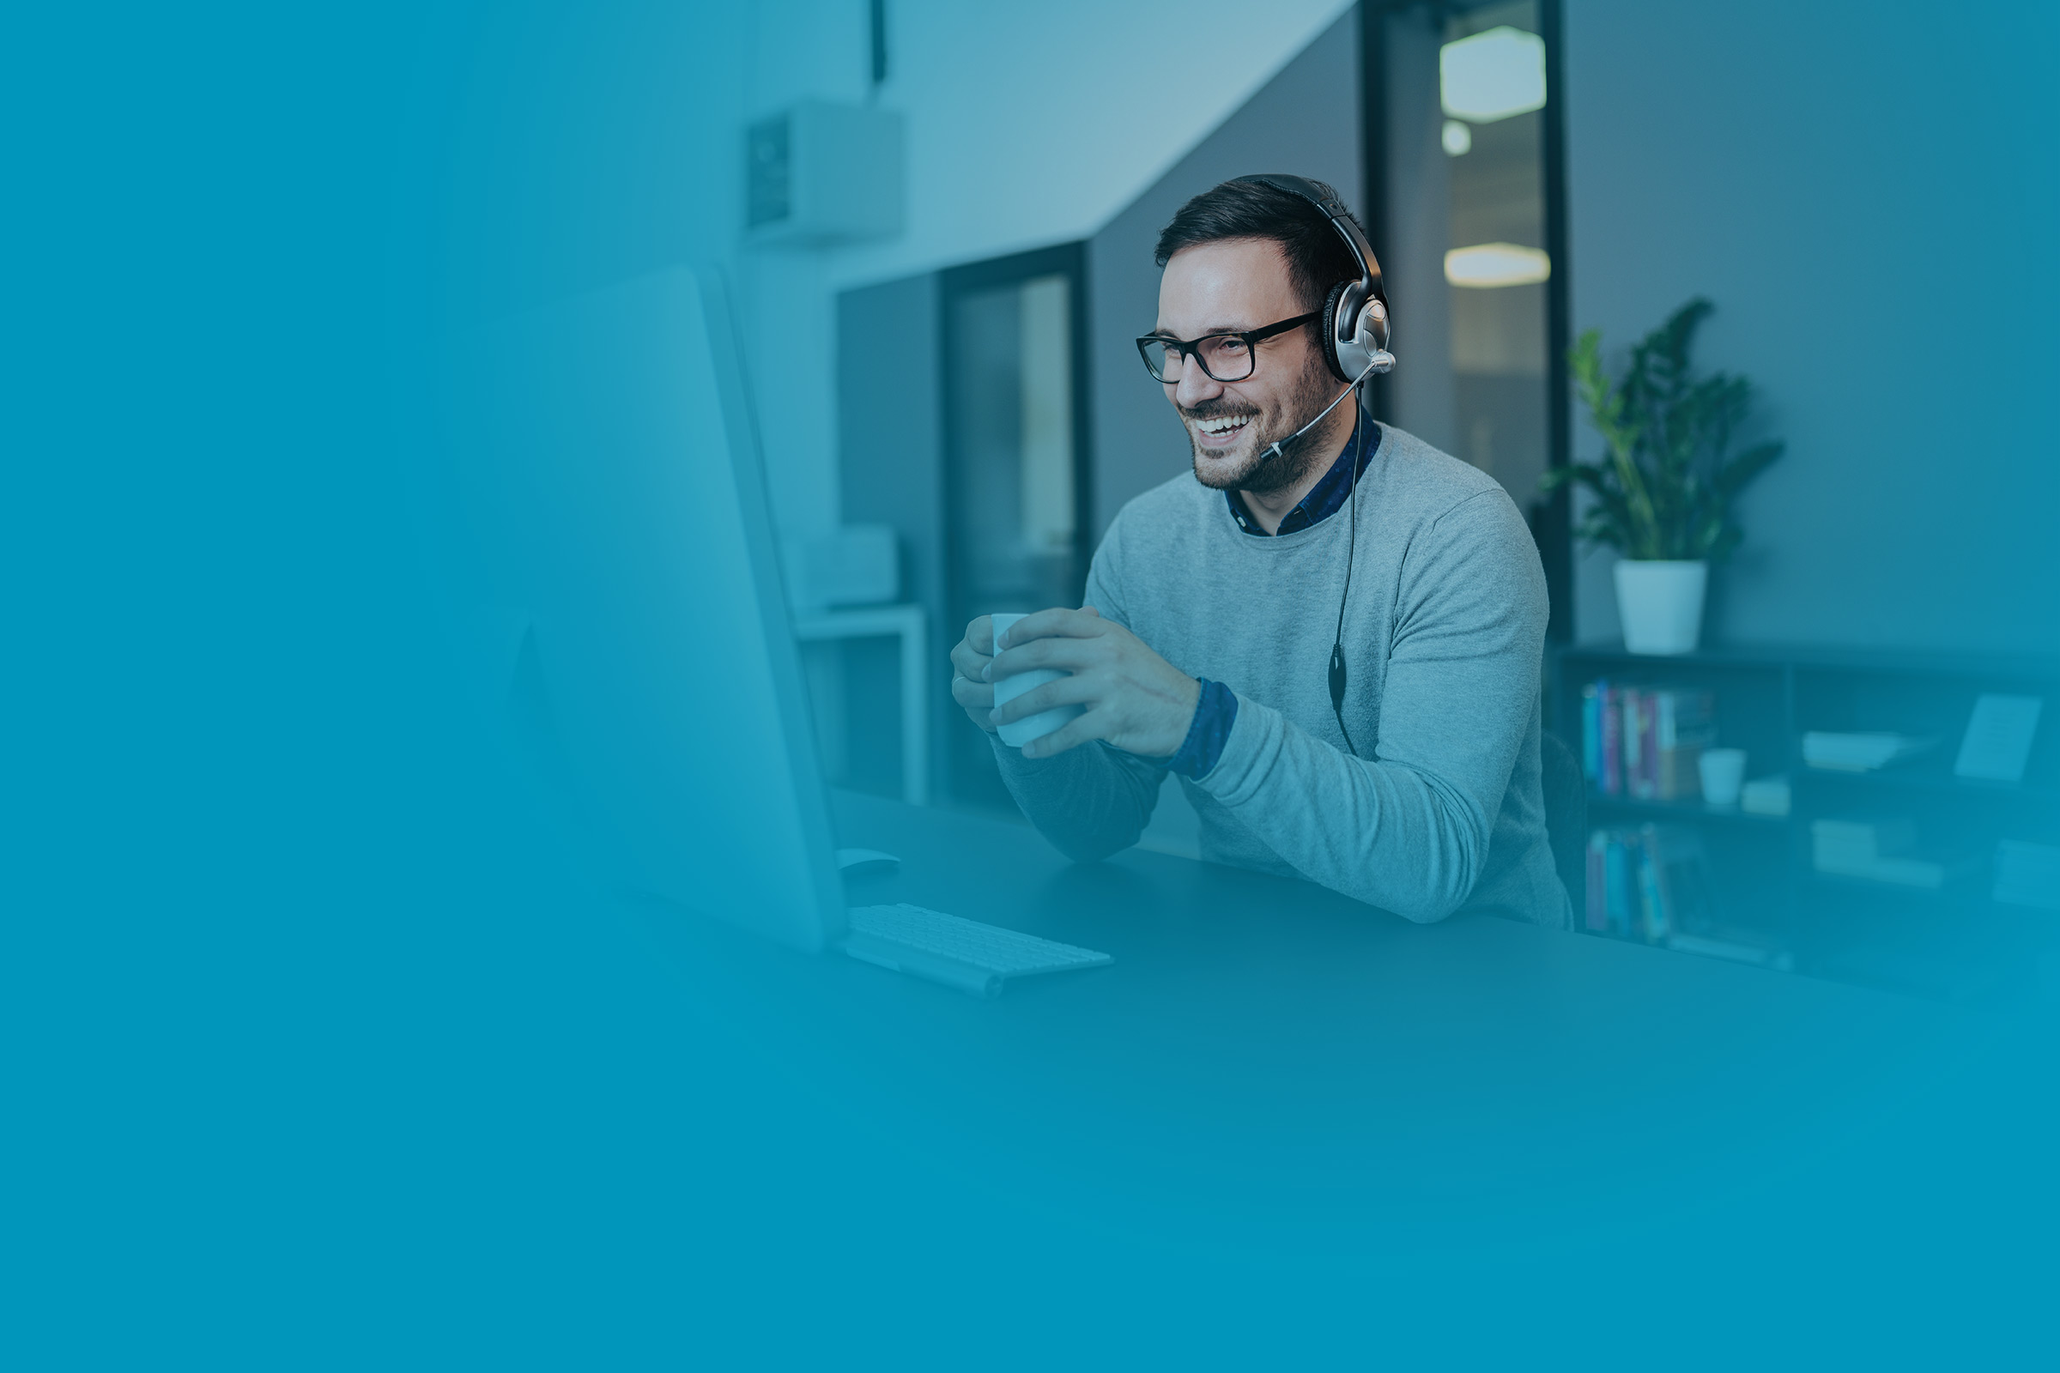
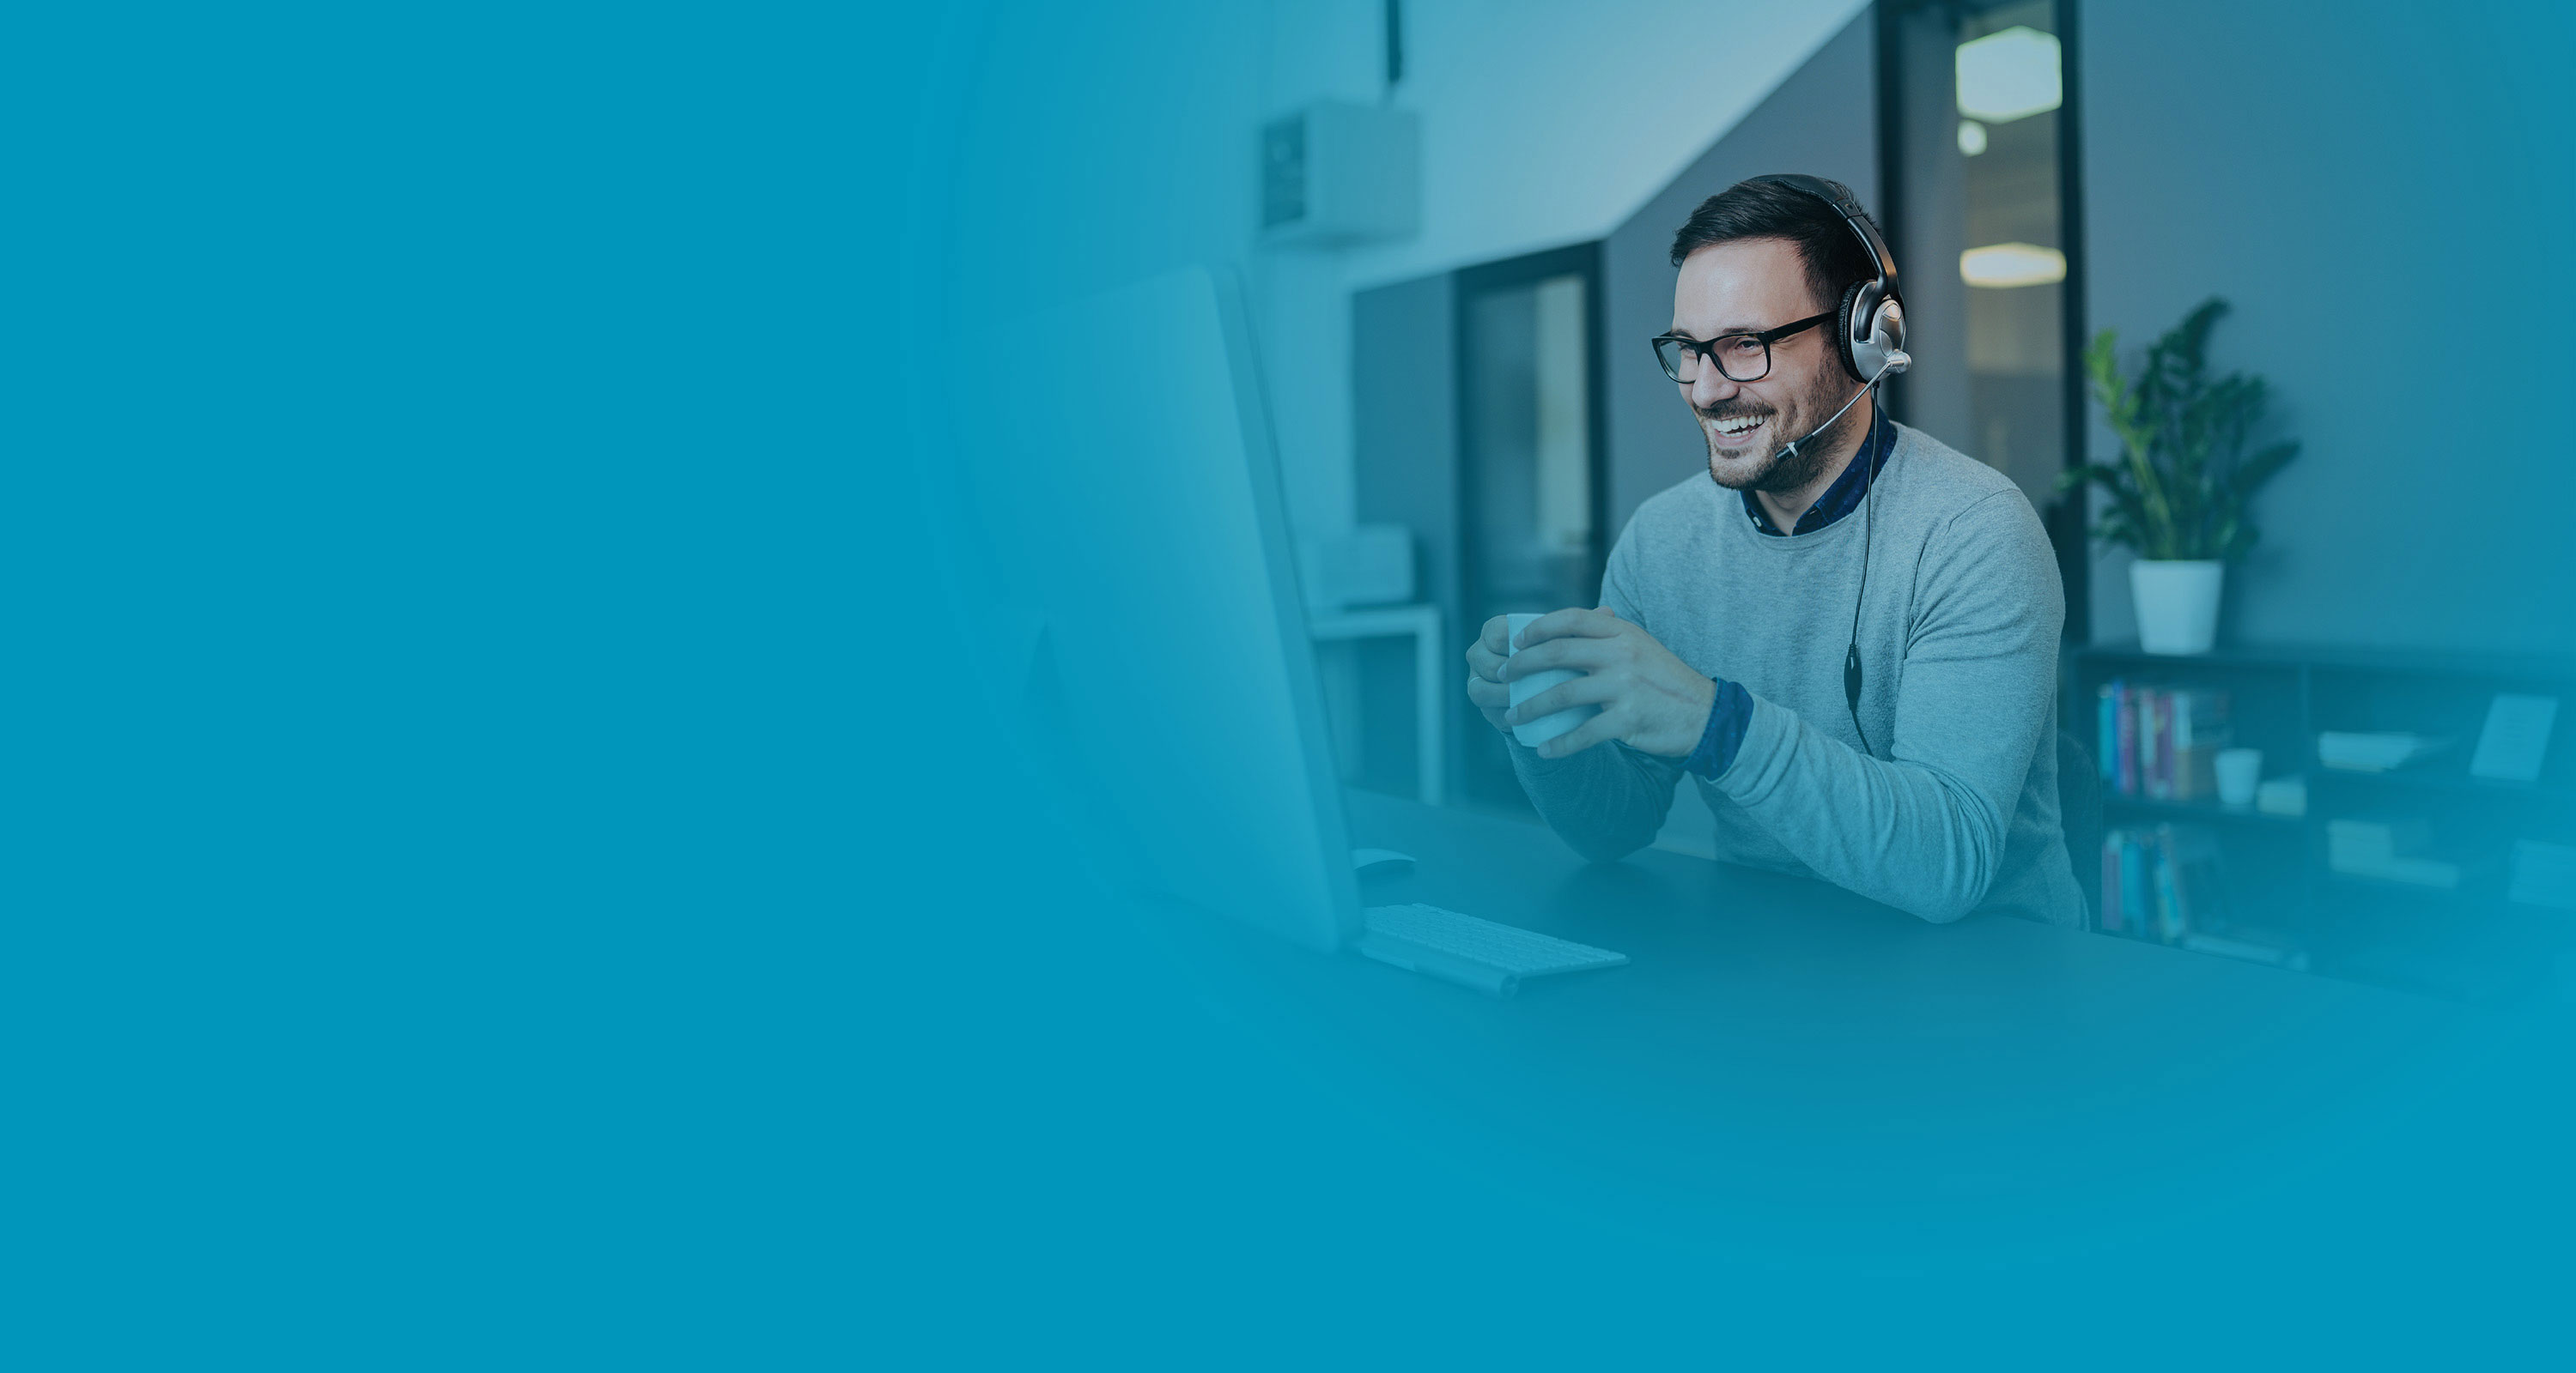
revised masthead

diff --git a/voxns/index-alpha.html b/voxns/index-alpha.html
@@ -19,7 +19,7 @@
   <link href="vendor/simple-line-icons/css/simple-line-icons.css" rel="stylesheet" type="text/css">
 
   <!-- Custom styles for this template -->
-  <link href="css/landing-page.css" rel="stylesheet">
+  <link href="css/landing-page-alpha.css" rel="stylesheet">
 
 </head>
 
@@ -37,18 +37,24 @@
   <header class="masthead text-white">
     <div class="container">
       <div class="row">
-        <div class="col-xl-6 col-lg-7 col-md-9 col-sm-12">
+        <div class="col-md-8 col-sm-12">
           <img class="cisco-partner" src="img/cisco-partner.png" alt="Cisco Partner" width="120" height="120">
-          <h2 class="mt-2 mb-4">Webex Calling with&nbsp;Vox<br><span>Your complete phone system and collaboration solution in the&nbsp;cloud</span></h2>
-          <div class="video-container">
-            <iframe class="video" src="https://www.youtube-nocookie.com/embed/lalnDTskMfU" allowfullscreen></iframe>
-          </div>
-          <!--<p class="lead">Webex Calling is a complete enterprise cloud calling and team collaboration solution that offers: all features of unified communications (UC) including voice, video, and collaboration, easy centralized management, and the high security and reliability standards of a global brand you can&nbsp;trust.</p>
-          <p class="lead">Choosing Webex Calling with Vox lets you migrate your telephony to the cloud at your own&nbsp;pace.</p>-->
+          <h1 class="mt-2 mb-3">Webex Calling with&nbsp;Vox</h1>
+          <p class="lead">Webex Calling is your complete phone system and collaboration solution in the&nbsp;Cloud!</p>
+          <p class="lead">Webex Calling is a complete enterprise cloud calling and team collaboration solution that offers: all features of unified communications (UC) including voice, video, and collaboration, easy centralized management, and the high security and reliability standards of a global brand you can&nbsp;trust.</p>
+          <p class="lead">Choosing Webex Calling with Vox lets you migrate your telephony to the cloud at your own&nbsp;pace.</p>
         </div>
       </div>
     </div>
   </header>
+
+  <section class="blue text-white">
+    <div class="container">
+      <div class="row" style="padding:0 15px">
+        <div class="video-container"><iframe class="video" src="https://www.youtube-nocookie.com/embed/lalnDTskMfU" allowfullscreen></iframe></div>
+      </div>
+    </div>
+  </section>
 
   <section class="features-icons bg-light text-center">
     <div class="container">

diff --git a/voxns/css/landing-page-alpha.css b/voxns/css/landing-page-alpha.css
@@ -20,12 +20,8 @@ h1, h2, h3, h4, h5, h6 {
 }
 
 h1, h2 {
-  font-weight: 500;
+  font-weight: 600;
   letter-spacing: -0.05rem;
-}
-
-h2 span {
-  font-weight: 200;
 }
 
 h1.hr {
@@ -40,7 +36,7 @@ h1.hr span {
   padding: 0 1rem;
 }
 
-.o7 {
+h2 .o7 {
   opacity: 0.6;
 }
 
@@ -57,7 +53,12 @@ header.masthead {
   background-color: #343a40;
   background: url("../img/masthead.jpg") no-repeat center center;
   background-size: cover;
-  padding: 4rem 1rem;
+  padding: 8rem 1rem 2rem;
+}
+
+header.masthead+section {
+  background: #0096bb;
+  padding: 0 0 8rem;
 }
 
 section.blue {
@@ -146,6 +147,7 @@ a:hover {
 .btn-primary.round {
   margin: 0.5rem 0;
   border-radius: 10rem;
+  font-size: 0.875rem;
 }
 
 .btn-primary:hover,
